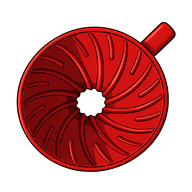
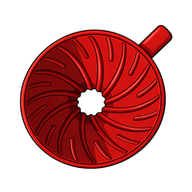
Add files via upload

diff --git a/index.html b/index.html
@@ -91,7 +91,7 @@
         <h1>☕ Mr Coffee</h1>
         <div class="sub">V60 scale-side helper</div>
       </div>
-      <div style="text-align:right"><div class="pill" id="ratioBadge">16:1 · 3× bloom</div><div class="sub" style="margin-top:5px">Mr Coffee · v1.4.5</div></div>
+      <div style="text-align:right"><div class="pill" id="ratioBadge">16:1 · 3× bloom</div><div class="sub" style="margin-top:5px">Mr Coffee · v1.4.6</div></div>
     </div>
 
     <div class="tabs">

diff --git a/service-worker.js b/service-worker.js
@@ -1,4 +1,4 @@
-const CACHE = 'mr-coffee-v1.4.5';
+const CACHE = 'mr-coffee-v1.4.6';
 const ROOT = '/mr-coffee/';
 const CORE = [
   ROOT,

diff --git a/README.md b/README.md
@@ -1,10 +1,16 @@
-# Mr Coffee — v1.4.5 WebAPK Icon Calibration
+# Mr Coffee — v1.4.6 Fine-Tuned Maskable Icon
 
-This build preserves the v1.4.4 WebAPK/installability fix.
+This build preserves the proven WebAPK/PWA installability setup from v1.4.5.
 
-The only intentional change is the icon artwork:
-- removes the previous 1.13× aggressive maskable enlargement
-- uses the full-bleed user-provided V60 icon at its original 1.00× size
-- keeps separate `any` and `maskable` manifest entries
+Only one thing changed:
+- the maskable launcher icon was scaled down slightly to 96% of the v1.4.5 size
 
-Why: v1.4.4 proved the app is now installing as a real PWA/WebAPK. The home-screen icon and install notification now match, which means Android is finally using the intended icon path. The prior aggressive enlargement was therefore genuinely too large. This build returns to the exact source scale that previously looked correct in the install notification.
+What stayed the same:
+- regular `any` icons unchanged
+- centering unchanged
+- white full-bleed background unchanged
+- manifest / scope / service-worker installability setup unchanged
+
+Purpose:
+- reduce the launcher icon zoom very slightly
+- keep the current good overall look while giving the red V60 and handle a bit more breathing room
